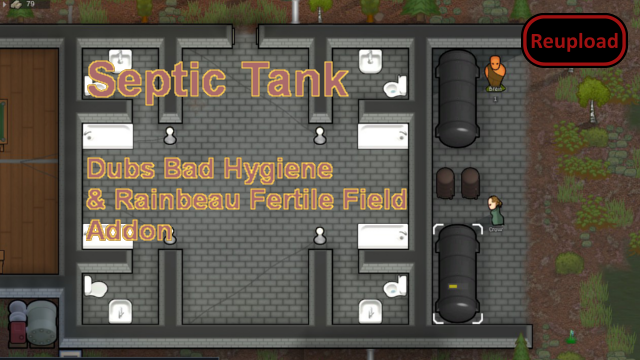
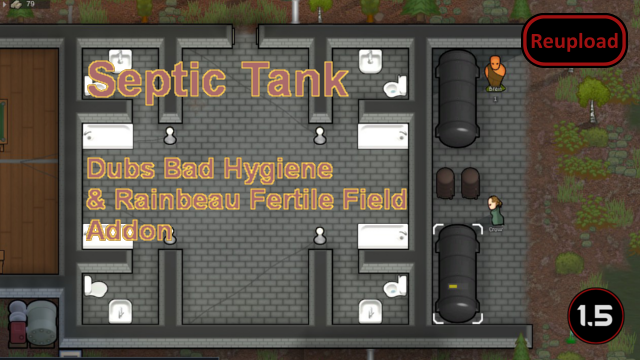
Mod updated for 1.5 and passed autotests

Changed region(s): [[0.875, 0.7944, 1.0, 0.9778]]

diff --git a/Source/FecalToCompost/Building_SepticTank.cs b/Source/FecalToCompost/Building_SepticTank.cs
@@ -1,6 +1,7 @@
 using System.Collections.Generic;
 using System.Text;
 using DubsBadHygiene;
+using UnityEngine;
 using Verse;
 using Verse.AI;
 
@@ -36,15 +37,15 @@ public class Building_SepticTank : Building
 
             if (GetSewage() >= 80)
             {
+                list.Add(new FloatMenuOption("Empty Sewage", action));
+                return list;
+
                 void action()
                 {
                     var job1 = new Job(DefDatabase<JobDef>.GetNamed("emptySewage"), this);
                     myPawn.jobs.TryTakeOrderedJob(job1);
                     myPawn.Reserve(this, job1);
                 }
-
-                list.Add(new FloatMenuOption("Empty Sewage", action));
-                return list;
             }
 
             {
@@ -80,7 +81,7 @@ public class Building_SepticTank : Building
         return numberOfCompost;
     }
 
-    public override void Draw()
+    protected override void DrawAt(Vector3 drawLoc, bool flip = false)
     {
         //Draw nothing
     }

diff --git a/README.md b/README.md
@@ -39,11 +39,13 @@ This mod was able to exist thanks to Rainbeau mod source code and decompiling of
 
 -  See if the the error persists if you just have this mod and its requirements active.
 -  If not, try adding your other mods until it happens again.
--  Post your error-log using https://steamcommunity.com/workshop/filedetails/?id=818773962]HugsLib and command Ctrl+F12
+-  Post your error-log using https://steamcommunity.com/workshop/filedetails/?id=818773962]HugsLib or the standalone https://steamcommunity.com/sharedfiles/filedetails/?id=2873415404]Uploader and command Ctrl+F12
 -  For best support, please use the Discord-channel for error-reporting.
 -  Do not report errors by making a discussion-thread, I get no notification of that.
 -  If you have the solution for a problem, please post it to the GitHub repository.
+-  Use https://github.com/RimSort/RimSort/releases/latest]RimSort to sort your mods
 
 
 
+https://steamcommunity.com/sharedfiles/filedetails/changelog/2385310448]![Image](https://img.shields.io/github/v/release/emipa606/SepticTank?label=latest%20version&style=plastic&color=9f1111&labelColor=black)
 
